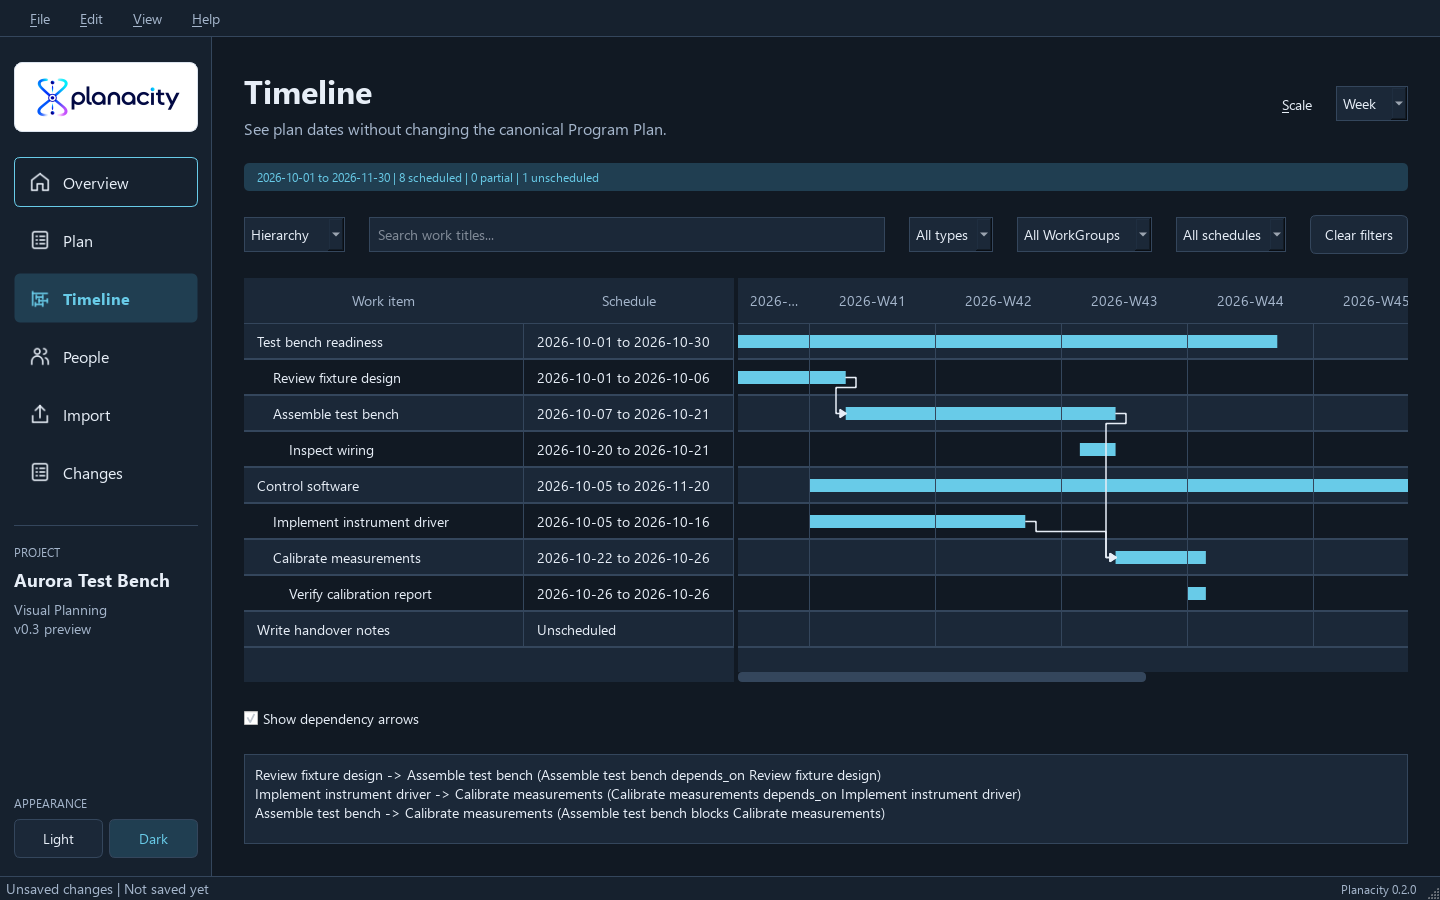
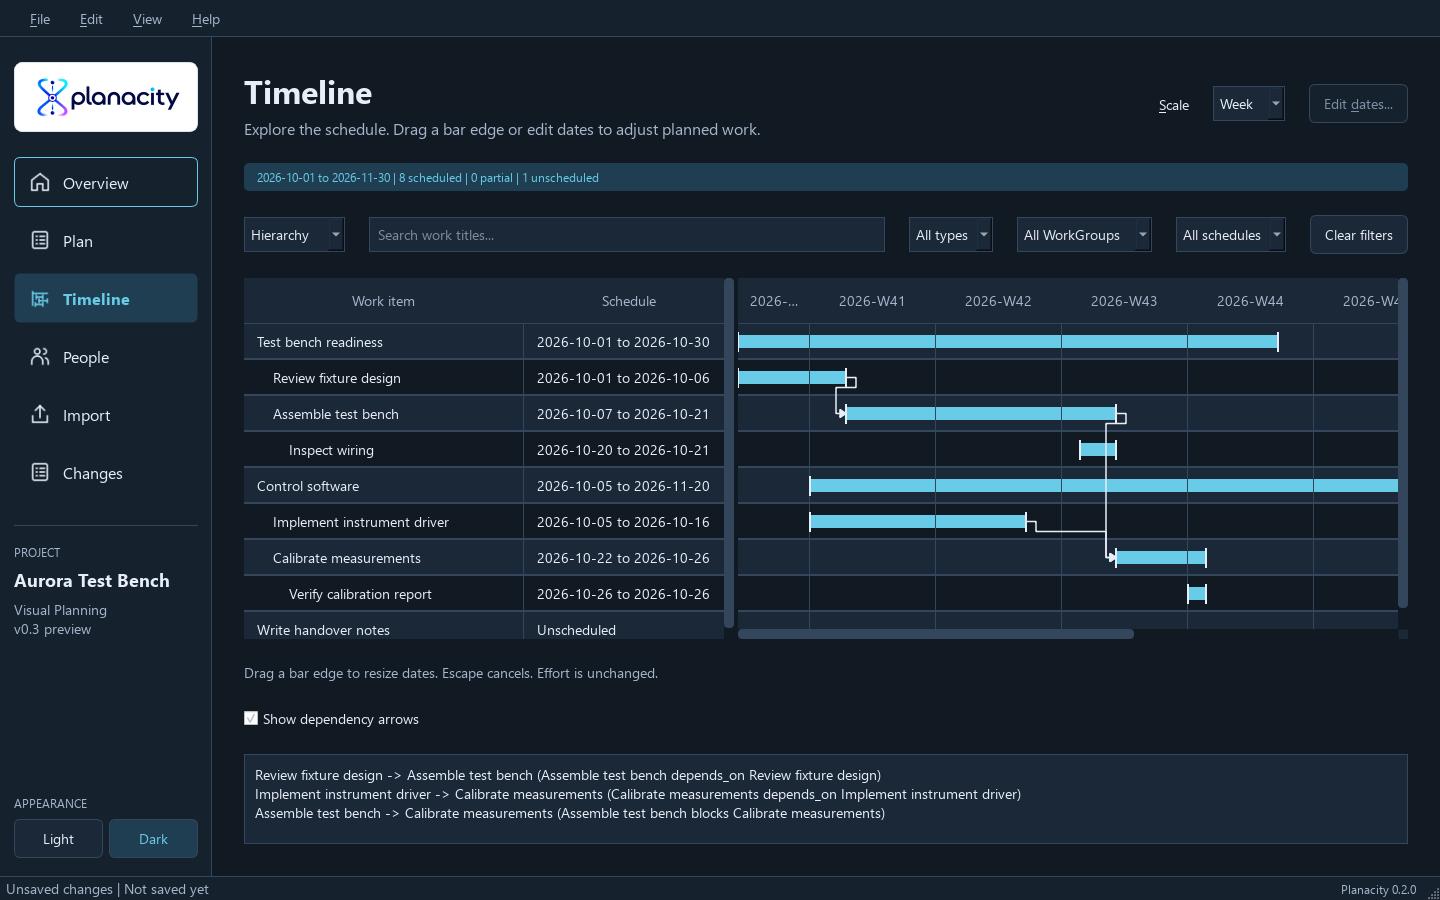
docs(timeline): document date resizing and keyboard editing

diff --git a/docs/getting-started.md b/docs/getting-started.md
@@ -21,7 +21,7 @@ No account or network connection is needed while planning.
    retained and shown in the Planning notes column.
 6. Open **People** to add, rename, or remove roster members. Assignments, load
    calculations, and recurring capacity reservations are planned for v0.4.
-7. Open **Timeline** (`Ctrl+3`) for a read-only view of scheduled bars across the
+7. Open **Timeline** (`Ctrl+3`) for a view of scheduled bars across the
    planning horizon. Start-only, end-only, unscheduled, and outside-horizon work
    remain visible as explicit schedule states. Timeline selection and scrolling
    do not change the plan.
@@ -76,8 +76,34 @@ Cyclic, filtered, partially scheduled, or outside-horizon endpoints have an
 explanation instead of an arrow. Both endpoints must also be on screen; scroll
 or choose a broader scale to see the connector. Multiple memberships show links
 within shared sections; links across sections use the first occurrences.
-Toggle arrows off to reduce visual clutter. No dates, estimates, relationships,
-or imported baselines are changed by these views.
+Toggle arrows off to reduce visual clutter. Grouping, filtering, and arrow display
+do not change dates, estimates, relationships, or imported baselines.
+
+### Adjust dates from Timeline
+
+Drag the left or right handle of a fully scheduled bar. The dashed line snaps to
+calendar days at every scale. The preview shows original and proposed dates and
+inclusive calendar duration, which is separate from estimated effort hours.
+Release inside the schedule to apply one validated change. Escape, a reversed
+date range, or a drop outside the schedule preserves the original dates.
+Changing scale, filtering, leaving the view, or receiving a new plan cancels a drag.
+
+Scroll horizontally before dragging to bring the required dates into view. The
+view does not automatically pan when the pointer leaves the schedule, and retains
+its scroll position after a valid resize. Only actual visible date edges have
+handles; dates outside the horizon are never silently clamped.
+
+Select work and choose **Edit dates...** (`Alt+D`) to enter dates with the keyboard
+or calendar. Clear a field to leave it unset. This also works for partial and
+unscheduled work or dates outside the displayed horizon. The Plan view continues
+to offer the same keyboard date editing. Outside-horizon warnings remain visible.
+
+Date changes update Plan, Timeline, and Changes together and are included when
+you save the project. Effort hours, dependencies, other work, and imported
+baselines stay unchanged. Whole-bar moving and automatic scheduling remain future work.
+
+![Date resize preview in light appearance](images/timeline-resize-light.png)
+![Date resize preview in dark appearance](images/timeline-resize-dark.png)
 
 ![Grouped Timeline in dark appearance](images/timeline-grouped-dark.png)
 

diff --git a/docs/v0.3-issues.md b/docs/v0.3-issues.md
@@ -27,7 +27,7 @@ Tracked in GitHub issues [#30](https://github.com/tidus747/planacity/issues/30),
 | V03-04 | Grouping and filtering | V03-02 | Implemented for review (#33) |
 | V03-05 | Basic dependency visualization | V03-02 | Implemented for review (#34) |
 | V03-06 | Validation and documentation | V03-01 through V03-05 | Planned in #35 |
-| V03-07 | Resize bar start/end dates | V03-02, V03-03 | Planned in [#50](https://github.com/tidus747/planacity/issues/50) |
+| V03-07 | Resize bar start/end dates | V03-02, V03-03 | Implemented for review (#50) |
 
 V03-01 derives immutable display rows and date coordinates from the canonical
 Program Plan without Qt. Later issues render and transform that projection; they
@@ -53,13 +53,13 @@ and cannot cross. Keyboard date editing must remain available.
 
 Changing a date range does not change estimated effort hours, move dependent work,
 or overwrite an imported baseline. Partial and unscheduled work continues to use
-the date editor. This work is planned, not enabled in the current read-only view.
+the date editor. Resizing is implemented for review in #50.
 
 Dependency arrows are implemented for review in #34. For A depends_on B, draw B -> A; for A blocks
 B, draw A -> B. Parent/child hierarchy and related_to are separate concepts.
 Show accessible relationship details and handle hidden or unscheduled endpoints
 without misleading arrows. Displaying a dependency does not automatically move work.
-The #35 acceptance pass should also cover bar resizing when #50 is implemented.
+The #35 acceptance pass should also cover bar resizing.
 
 Whole-bar moving, automatic dependency scheduling, capacity, timeline export,
 and scenario comparison remain outside this focused interaction change.

diff --git a/docs/architecture.md b/docs/architecture.md
@@ -112,3 +112,10 @@ orthogonal connector geometry is independently testable. The Qt schedule view
 maps day coordinates to visible cells and draws arrows only when both actual
 endpoints are on screen. Cross-section links use the first occurrence when no
 shared section exists. None of these operations changes the canonical plan.
+
+Timeline editing is separate from projection and painting. `timeline_resize.py`
+in planning snaps period fractions to inclusive days and delegates validation to
+`set_work_dates`. The UI holds the original immutable snapshot throughout a drag,
+previews candidates, and applies once on release only if that snapshot is still
+current. Escape, view changes, and invalid drops discard the candidate. The
+keyboard date form uses the same canonical setter and stale-snapshot check.

diff --git a/README.md b/README.md
@@ -28,8 +28,8 @@ available separately in `examples/aurora.planacity.json`.
 
 Manual planning and Jira CSV roundtrip are implemented. The Timeline shows work
 using the same canonical plan, with scales, grouping, filters, and dependency
-arrows. The current [v0.3 roadmap](docs/v0.3-issues.md) tracks remaining direct
-date editing and release validation. Read the
+arrows. Drag bar edges or use Edit dates to adjust dates without changing effort
+hours. The current [v0.3 roadmap](docs/v0.3-issues.md) tracks release validation. Read the
 [import guide](docs/jira-import.md) and [export guide](docs/jira-export.md).
 Completed-version issue drafts have been retired; GitHub Issues and Milestones
 retain their history. Capacity and recurring reservations remain planned for v0.4.

diff --git a/CHANGELOG.md b/CHANGELOG.md
@@ -6,6 +6,9 @@ Meaningful user-facing changes are recorded here. Planacity uses Semantic Versio
 
 ### Added
 
+- Resize Timeline bar edges with day snapping, a date/duration preview, and
+  cancellation. Edit dates with the keyboard or calendar without changing effort
+  hours, dependent work, or the imported baseline.
 - Timeline grouping by hierarchy, Epic, or WorkGroup, with title, type,
   WorkGroup, and schedule-state filters and explicit ungrouped sections.
 - Directional dependency arrows with readable relationship details, filter and
